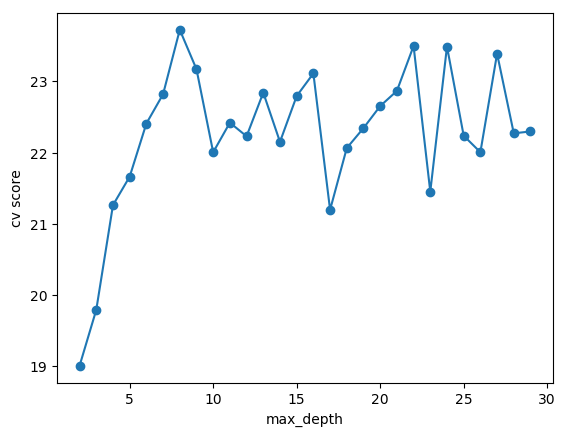
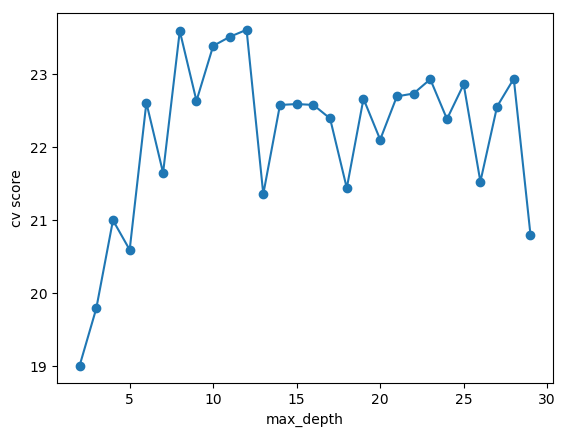
task_04 (Rev. 1)
Revision of code, README.md file added.

diff --git a/task_04/task_04.py b/task_04/task_04.py
@@ -101,6 +101,7 @@ def main():
     plt.show()
 
     features_corr = zip(features, corr)
+    print ''
     print tabulate(features_corr, headers = ['Feature','R value'])
     
     #Selection of characteristics with correlation greater than 0.7.
@@ -112,19 +113,24 @@ def main():
     total_scores = []
 
     for i in range(2, 30):
-        regressor = DecisionTreeRegressor(max_depth=i)
+        regressor = DecisionTreeRegressor(criterion = 'mse', max_depth=i)
         regressor.fit(df_dropna[features_selected], df_dropna['total_cases'])
         scores = -cross_val_score(regressor, df_dropna[features_selected],
                  df_dropna['total_cases'], scoring='neg_mean_absolute_error', cv=10)
-        total_scores.append(scores.mean())
+        total_scores.append((scores.mean(), scores.std()))
     
-    plt.plot(range(2,30), total_scores, marker='o')
+    scores_mean = [total_scores[i][0] for i in range(len(total_scores))]
+    
+    plt.plot(range(2,30), scores_mean, marker='o')
     plt.xlabel('max_depth')
     plt.ylabel('cv score')
     plt.show()
     
-    best_max_depth_mean = total_scores.index(min(total_scores))+2
-    print 'Best MAX_DEPTH: %d' % (best_max_depth_mean)
+    info_regression = [(i+2, total_scores[i][0], '+/- '+str(total_scores[i][1])) for i in range(len(total_scores))]
+    print ''
+    print tabulate(info_regression, headers = ['Level depth', 'Mean','Standard Deviation'])
+    best_max_depth = total_scores.index(min(total_scores))+2
+    print '\nBest MAX_DEPTH: %d' % (best_max_depth)
     
     #3. Build the model
     
@@ -133,35 +139,27 @@ def main():
     # splitter: best/random
     # max_depth: low value avoid overfitting
     
-    regressor = DecisionTreeRegressor(criterion = 'mse', max_depth = best_max_depth_mean,
-                                      random_state = 0)
+    regressor = DecisionTreeRegressor(criterion = 'mse', max_depth = best_max_depth)
 
     #3.2 Model construction
     regressor.fit(df_dropna[features_selected], df_dropna['total_cases'])
     
     
     #3.3.  Model Visualization
-    dot_data = export_graphviz(regressor, out_file='tree.dot', 
+    
+    dot_data = export_graphviz(regressor, out_file=None, 
                                feature_names = features_selected,
                                filled=True, rounded=True,  
                                special_characters=True)  
     
-    graph = graphviz.Source(dot_data, format = 'png')  
-    dot_data = export_graphviz(regressor, out_file='tree.dot') 
-    graph = graphviz.Source(dot_data , format = 'png') 
-    graph.render("dengue_cases") 
+    graph = graphviz.Source(dot_data, format = 'png')   
+    graph.render('decision_tree_mse', 'images', cleanup= True) 
     graph 
-    """
-    dot_data = export_graphviz(regressor, out_file='tree.dot',
-                               feature_names = features_selected, 
-                               filled=True, rounded=True)
-    graph = graphviz.Source(dot_data)  
-    graph.render(dot_data, view=True)
-    graph
-    """
+    
+
     # 3.4 Feature Relevances
     
-    print '\n\t\t[ RELEVANCES FEATURES ]\n'
+    print '\n\t\t[ RELEVANCES FEATURES (MSE) ]\n'
     relevances_list = zip(features_selected, regressor.feature_importances_)
     
     print tabulate(relevances_list, headers=['Feature selected', 'Relevance'])
@@ -176,47 +174,7 @@ def main():
         max_values_feature.append(features_selected[pos])
     
     print '\nFeatures with more relevance: \n\t' + str(max_values_feature)
-    
-    
-    #-----
-    # On the other hand, we compare with other metric.
-    # Compute the max 
-    mae = []
 
-    for i in range(2, 30):
-        regressor = DecisionTreeRegressor(max_depth=i)
-        regressor.fit(df_dropna[features_selected], df_dropna['total_cases'])
-        pred_values = regressor.predict(df_dropna[features_selected])
-        maev = mean_absolute_error(df_dropna['total_cases'],pred_values)
-        mae.append(maev)
-        
-    # Plot mae   
-    plt.plot(range(2,30), mae, marker='o')
-    plt.xlabel('max_depth')
-    plt.ylabel('mae')
-    plt.show()
-    #-----
-    
-    best_max_depth_mae = mae.index(min(mae))+2
-    print 'Best MAX_DEPTH with MAE: %d' % (best_max_depth_mae)
-    
-    # 2.2 Feature Relevances with MAE
-    
-    print '\n\t\t[ RELEVANCES FEATURES(MAE)]\n'
-    relevances_list = zip(features_selected, regressor.feature_importances_)
-    
-    print tabulate(relevances_list, headers=['Feature selected', 'Relevance'])
-    
-    reg_values = list(regressor.feature_importances_)
-    reg_values_sort = sorted(reg_values, reverse = True)
-    
-    max_values_feature = []
-    
-    for i in range(2):
-        pos = reg_values.index(reg_values_sort[i])
-        max_values_feature.append(features_selected[pos])
-    
-    print '\nFeatures with more relevance: \n\t' + str(max_values_feature)
 
     
 if __name__ == '__main__':

diff --git a/task_04/README.md b/task_04/README.md
@@ -1,0 +1,141 @@
+# Task 04
+
+## Load data
+It has been done in the same way as the previous tasks, with the same data set and eliminating the outliers that have been found (732 and 769).
+
+This time, the values of 'total_cases' feature has been included in the target data, features belonging to the file 'dengue_labels_train.csv'.
+The values of 'total_cases' were matched considering 'city', 'year' and 'weekofyear' features.
+
+## Graphic representations.
+
+To facilitate the interpretation of the data present on the target data, after filtering them, show the histograms, density and scatter_matrix plots with the differences between features.
+
+![Histogram][1]  
+
+![Density][2]  
+
+These representations facilitate, in a way, the understanding of the features ratio.
+
+![Scater Matrix][3]  
+
+## Correlation.
+
+After normalization of the data using MinMax, the correlation of each of the features was calculated with the 'total_cases' feature, obtaining the following plot with the corresponding associated correlation values.
+
+![Correlation][4]  
+
+|  |  |
+| -- | -- |
+| __Feature__ | __R value__ |
+| -- | -- |
+| ndvi_ne | 0.227356 |
+| __ndvi_nw__ | __0.760126__ |
+| ndvi_se | 0.359821 |
+| ndvi_sw | 0.390777 |
+| precipitation_amt_mm | 0.658474 |
+| reanalysis_air_temp_k | 0.533453 |
+| reanalysis_avg_temp_k | 0.617753 |
+| reanalysis_dew_point_temp_k | 0.562219 |
+| reanalysis_max_air_temp_k | 0.648292 |
+| reanalysis_min_air_temp_k | 0.519861 |
+| __reanalysis_precip_amt_kg_per_m2__ | __0.734534__ |
+| reanalysis_relative_humidity_percent | 0.60195 |
+| reanalysis_sat_precip_amt_mm | -0.0701244 |
+| __reanalysis_specific_humidity_g_per_kg__ | __0.782729__ |
+| reanalysis_tdtr_k | 0.64281 |
+| __station_avg_temp_c__ | __0.763298__ |
+| station_diur_temp_rng_c | 0.676888 |
+| station_max_temp_c | 0.505806 |
+| station_min_temp_c | 0.386755 |
+| station_precip_mm | 0.692587 |
+
+The features have been selected, in absolute value, greater than 0.71, which usually means a high or strong degree of correlation. Marked in __bold__ on the table.
+
+
+## CROSS VALIDATION.
+Different regression trees have been generated according to the maximum depth of these and a cross-validation has been carried out to choose the best option.
+
+### Selection of the depth.
+We selected the lowest value of Cross Validation, increasing the depth of the decision tree could be overfitting, we must keep in mind that the correlations of the features are above 0.71, otherwise we should take higher values or perform tests with several values to see which one fits best.
+
+![CV Score][5]
+Best MAX_DEPTH: 2
+
+
+
+## CONSTRUCCIÓN DEL MODELO.
+
+When creating the regression model, the MSE (Mean Squared Error) criterion is by default, the maximum depth is declared at 2, the other parameters are by default.
+
+|  |  |
+| -- | -- |
+| Level depth | Mean | Standard Deviation |
+| -- | -- |
+|  2 | 19.0044 |  +/- 14.3986135116 |
+|  3 | 19.4933 |  +/- 14.847248468 |
+|  4 | 20.5168 |  +/- 16.0544748648 |
+|  5 | 21.5403 |  +/- 16.4651097573 |
+|  6 | 21.1151 | +/- 18.455424585 |
+|  7 | 22.0872 | +/- 16.9204951223 |
+|  8 | 22.124  | +/- 16.2964483219 |
+|  9 | 22.5326 | +/- 16.1487113534 |
+| 10 | 22.4979 | +/- 15.6147082482 |
+| 11 | 22.9695 | +/- 17.0185578321 |
+| 12 | 23.1533 | +/- 17.4850772745 |
+| 13 | 21.3258 | +/- 16.1742677446 |
+| 14 | 21.688  | +/- 17.1866991109 |
+| 15 | 22.7444 | +/- 17.5363523251 |
+| 16 | 22.0111 | +/- 15.8740074096 |
+| 17 | 22.1121 | +/- 16.4805132101 |
+| 18 | 21.4454 | +/- 16.4707974135 |
+| 19 | 22.483  | +/- 18.0167704447 |
+| 20 | 20.9484 | +/- 16.695271736 |
+| 21 | 22.2748 | +/- 16.0361343495 |
+| 22 | 22.2605 | +/- 17.361780613 |
+| 23 | 21.9382 | +/- 16.2117663034 |
+| 24 | 22.9069 | +/- 17.9040090419 |
+| 25 | 22.0069 | +/- 16.1651787651 |
+| 26 | 22.9373 | +/- 17.7526872516 |
+| 27 | 20.7281 | +/- 16.317407424 |
+| 28 | 22.502  | +/- 17.0106518282 |
+| 29 | 22.165  | +/- 16.1200614316 |
+
+Best MAX_DEPTH: 2
+
+To find out which features are referenced we observe relevance level of the same:
+
+
+                [ RELEVANCES FEATURES ]
+
+|  |  |
+| -- | -- |
+| Feature selected | Relevance |
+| -- | -- |
+| ndvi_nw | 0 |
+| __reanalysis_precip_amt_kg_per_m2__ | __0.151773__ |
+| __reanalysis_specific_humidity_g_per_kg__ | __0.848227__ |
+| station_avg_temp_c | 0 |
+
+Features with more relevance: 
+        ['reanalysis_specific_humidity_g_per_kg', 'reanalysis_precip_amt_kg_per_m2']
+
+
+![Decision Tree][6]  
+
+
+
+
+
+
+[1]:
+https://github.com/grego1201/MACHINE-LEARNING-TECHNIQUES/blob/master/task_04/images/hist.png
+[2]:
+ https://github.com/grego1201/MACHINE-LEARNING-TECHNIQUES/blob/master/task_04/images/density.png
+[3]:
+https://github.com/grego1201/MACHINE-LEARNING-TECHNIQUES/blob/master/task_04/images/scater_matrix.png
+[4]:
+ https://github.com/grego1201/MACHINE-LEARNING-TECHNIQUES/blob/master/task_04/images/correlation.png
+[5]:
+https://github.com/grego1201/MACHINE-LEARNING-TECHNIQUES/blob/master/task_04/images/max_depth.png?raw=true
+[6]:
+https://github.com/grego1201/MACHINE-LEARNING-TECHNIQUES/blob/master/task_04/images/decision_tree_mse.png
